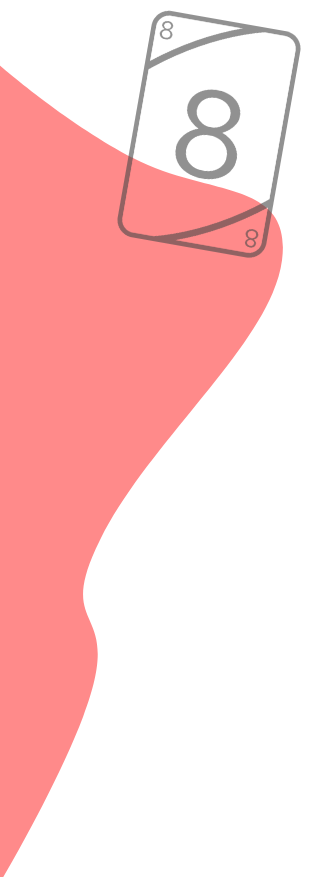
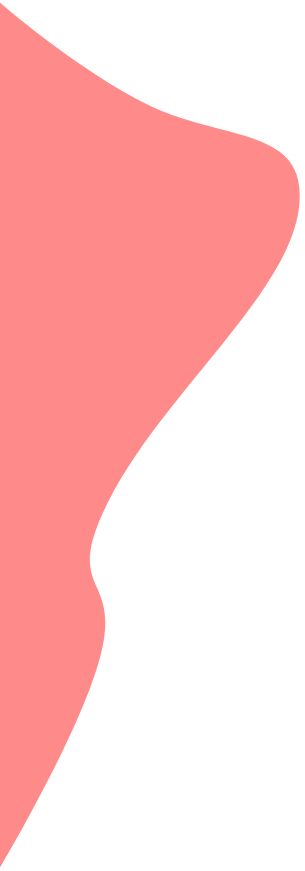
background

diff --git a/frontend/src/components/Ludo/Ludo.js b/frontend/src/components/Ludo/Ludo.js
@@ -45,7 +45,7 @@ function Ludo(props) {
     
         socket.on("ludo:showMoves", show => {
             show.forEach(element => {
-                $('#'+element).html('x');
+                $('#'+element).css({'border-color': 'yellow'});
             })
         });
 
@@ -103,7 +103,8 @@ function Ludo(props) {
     useEffect(() => {
         socket.on("ludo:moveFigure", move => {
             $(".matchfield").find(":button").html('');
-            $("#"+move[2]).css({'background-color':'white'});
+            $("#"+move[2]).css({'background-color':''});
+            $("#"+move[2]).css({'border-color':''});
             $("#"+move[0]).css({'background-color':move[1]});     
         });
 
@@ -156,7 +157,7 @@ function Ludo(props) {
     useEffect(() => {
         socket.on('ludo:playerLeave', (positionen => {
             positionen.forEach(p => {
-                $('#'+p[0]).css({'background-color':'white'});
+                $('#'+p[0]).css({'background-color':''});
             });
             $(".matchfield").find(":button").html('');
         }));
@@ -198,8 +199,8 @@ function Ludo(props) {
     
     return (
         <div id='game-content'>
+            <br></br>
             <div className='game-board'>
-                <br></br>
                 <div id = "choose_game_mode">
                     <label>Mögliche Spielzüge sollen vorgeschlagen und angezeigt werden:</label>
                     <br></br>
@@ -219,10 +220,10 @@ function Ludo(props) {
                 </div>
                 <br></br>
                 <br></br>
-                <button id='firstPlayer' onClick={ setFirstPlayer }>Spiel starten <br></br> (Ersten Spieler festlegen)</button>
+                <button id='firstPlayer' className="btn btn-dark" onClick={ setFirstPlayer }>Spiel starten</button>
                 <br></br>
                 <br></br>
-                <button id = "dice" className = 'dice' onClick={ roll }>Würfeln </button>
+                <button  className="btn btn-dark" id = "dice" className = 'dice' onClick={ roll }>Würfeln </button>
                 <Matchfield players={ props.players }/>
             </div>
         </div>

diff --git a/frontend/src/components/Home/GameCategoriesList/GameCategory/Game/Game.js b/frontend/src/components/Home/GameCategoriesList/GameCategory/Game/Game.js
@@ -23,9 +23,11 @@ function Game(props) {
     }, [props.gameId]);
 
     // Icon change
-    $('#buttonCollapse').click(function(){
-        $(this).find('svg').toggleClass('bi bi-caret-right-fill').toggleClass('bi bi-caret-down-fill');
-        });
+    $('#buttonCollapse').on('click',function(event) {
+        event.preventDefault();
+        $('.bi bi-chevron-right').toggle();
+        $('.bi bi-chevron-down').toggle();
+     });
 
     // Einen Raum erstellen
     const createRoom = useCallback(() => {
@@ -43,6 +45,9 @@ function Game(props) {
                 <button id="buttonCollapse" type="button" data-toggle="collapse" data-target="#collapseExample" aria-expanded="false" aria-controls="collapseExample">
                     <svg xmlns="http://www.w3.org/2000/svg" width="16" height="16" fill="currentColor" class="bi bi-chevron-right" viewBox="0 0 16 16">
                         <path fill-rule="evenodd" d="M4.646 1.646a.5.5 0 0 1 .708 0l6 6a.5.5 0 0 1 0 .708l-6 6a.5.5 0 0 1-.708-.708L10.293 8 4.646 2.354a.5.5 0 0 1 0-.708z"/>
+                    </svg>
+                    <svg xmlns="http://www.w3.org/2000/svg" style={{'display': 'none'}} width="16" height="16" fill="currentColor" class="bi bi-chevron-down" viewBox="0 0 16 16">
+                        <path fill-rule="evenodd" d="M1.646 4.646a.5.5 0 0 1 .708 0L8 10.293l5.646-5.647a.5.5 0 0 1 .708.708l-6 6a.5.5 0 0 1-.708 0l-6-6a.5.5 0 0 1 0-.708z"/>
                     </svg>
                 </button>
                 <h4 id="nameGame">{ props.name }</h4>

diff --git a/src/routes/api.js b/src/routes/api.js
@@ -28,7 +28,7 @@ router.get('/gamecategories', (req, res) => {
         
         try {
             const obj = JSON.parse(json);
-            const gameGategories = obj.map(gameCategory => ({ gameCategoryId: gameCategory.gameCategoryId, gameCategoryName: gameCategory.gameCategoryName, color: gameCategory.color, img: gameCategory.img }));
+            const gameGategories = obj.map(gameCategory => ({ gameCategoryId: gameCategory.gameCategoryId, gameCategoryName: gameCategory.gameCategoryName, color: gameCategory.color, img: gameCategory.img , imgbg1: gameCategory.imgbg1, imgbg2: gameCategory.imgbg2}));
 
             res.json(gameGategories);
 

diff --git a/frontend/src/components/Home/GameCategoriesList/GameCategory/GameCategory.js b/frontend/src/components/Home/GameCategoriesList/GameCategory/GameCategory.js
@@ -41,9 +41,13 @@ function GameCategory(props) {
         );
     }
     console.log(props.img);
+    console.log(props.imgbg1);
+
     return (
         <div>
             <img src={ props.img } id="banner" alt='Banner Bild'/>
+            <img src={ props.imgbg1 } id="backgroundimg1" alt=""/>
+            <img src={props.imgbg2} id="backgroundimg2" alt=""/>
             { 
                 games.map(game => (
                     <Game key={ game.id } gameId={ game.id } name={ game.name } description={ game.description} />

diff --git a/frontend/src/components/Home/GameCategoriesList/GameCategoriesList.js b/frontend/src/components/Home/GameCategoriesList/GameCategoriesList.js
@@ -81,7 +81,9 @@ function GameCategoriesList() {
                 <GameCategory gameCategoryId = { activeCategory.gameCategoryId } 
                     color = { activeCategory.color } 
                     categoryName = { activeCategory.gameCategoryName }
-                    img={ activeCategory.img }/>
+                    img = { activeCategory.img }
+                    imgbg1 = { activeCategory.imgbg1 }
+                    imgbg2 = {activeCategory.imgbg2}/>
             </div>
         </div>
     );

diff --git a/frontend/src/components/Home/GameCategoriesList/GameCategory/GameCategory.css b/frontend/src/components/Home/GameCategoriesList/GameCategory/GameCategory.css
@@ -11,7 +11,6 @@
     font-weight: 330;
     font-size: 6.5em;
     letter-spacing: 3px;
-
     margin: 0;
 }
 
@@ -25,4 +24,19 @@
     margin-left: auto;
     margin-right: auto;
     margin-top: 80px;
+}
+
+#backgroundimg1{
+    height: 150px;
+    float: left;
+    margin-left: 50px;
+    opacity: 70%;
+    transform: rotate(350deg);
+}
+#backgroundimg2{
+    height: 150px;
+    float: right;
+    margin-right: 60px;
+    opacity: 70%;
+    transform: rotate(20deg);
 }

diff --git a/frontend/src/components/Home/GameCategoriesList/GameCategoriesList.css b/frontend/src/components/Home/GameCategoriesList/GameCategoriesList.css
@@ -1,9 +1,13 @@
 .nav-pills .nav-link {
-    border-radius: .25rem;
+    border-radius: 0;
     height: 110px;
+    width: 300px;
     font-size: 70px;
     background-color:transparent;
-    border: none;
+    border-top: none;
+    border-left: none;
+    border-right: none;
+    border-bottom: transparent;
     font-family: 'coffee+tea demo','Calibri';
 }
 
